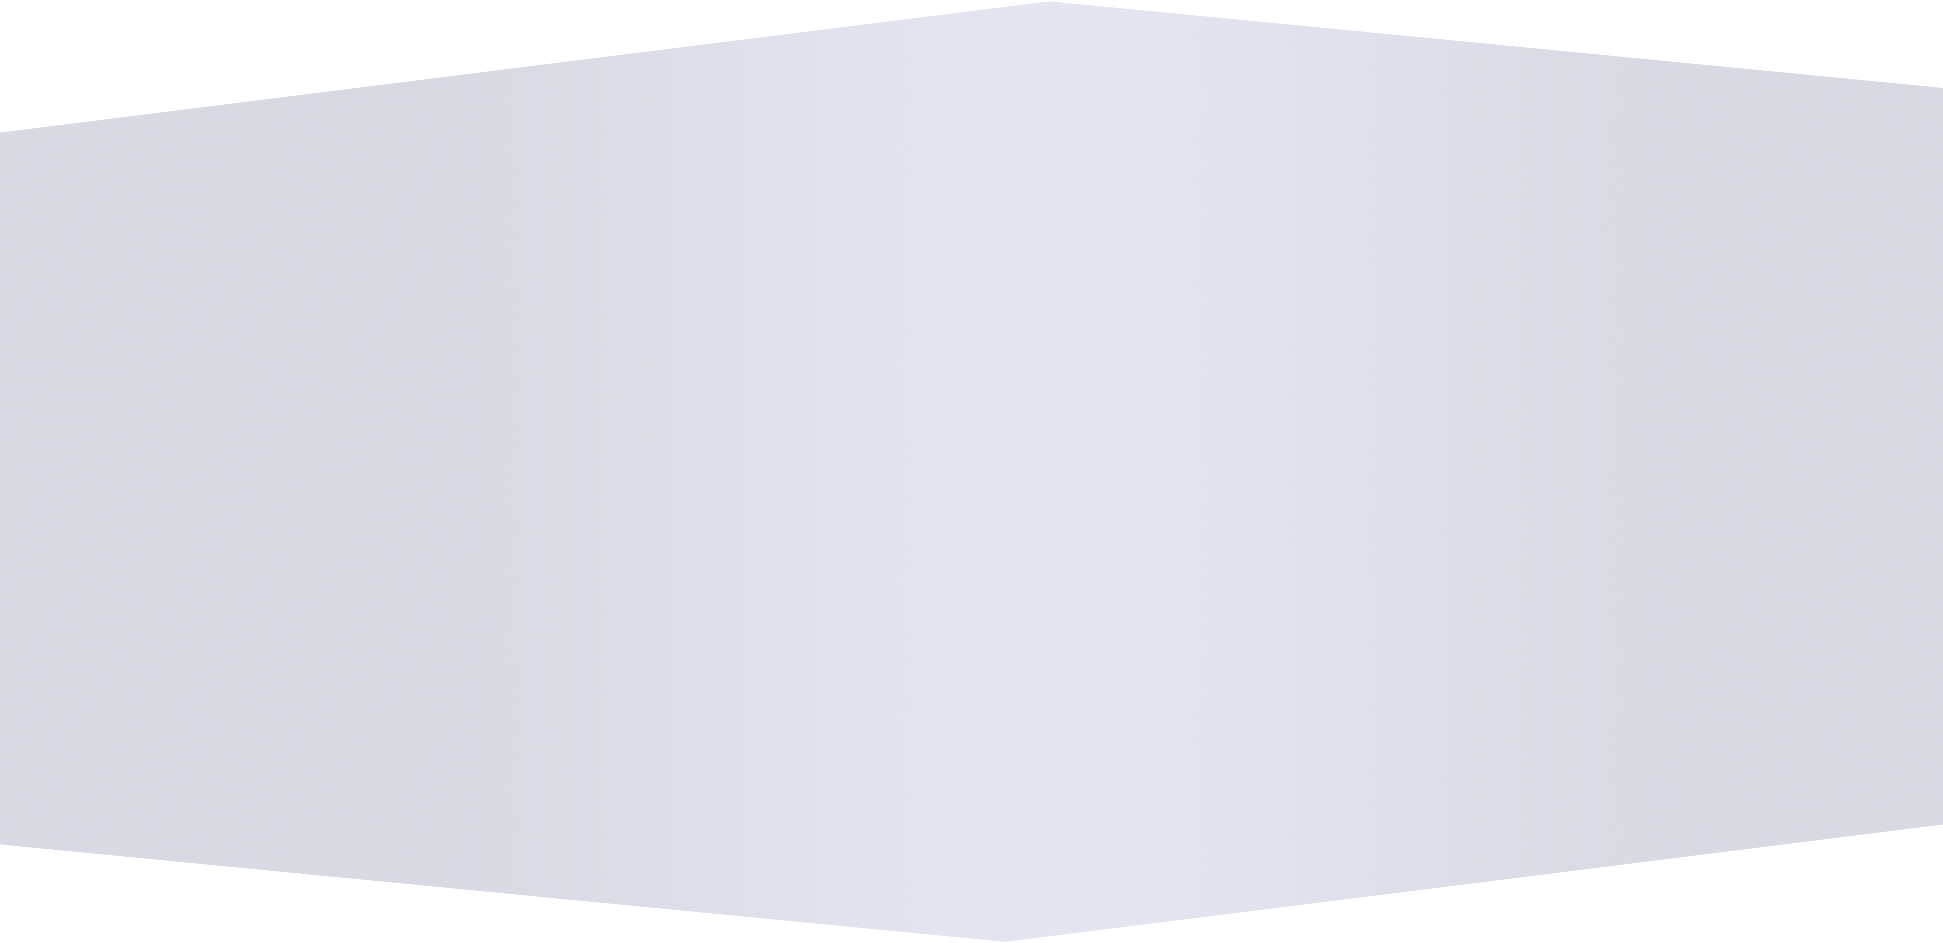
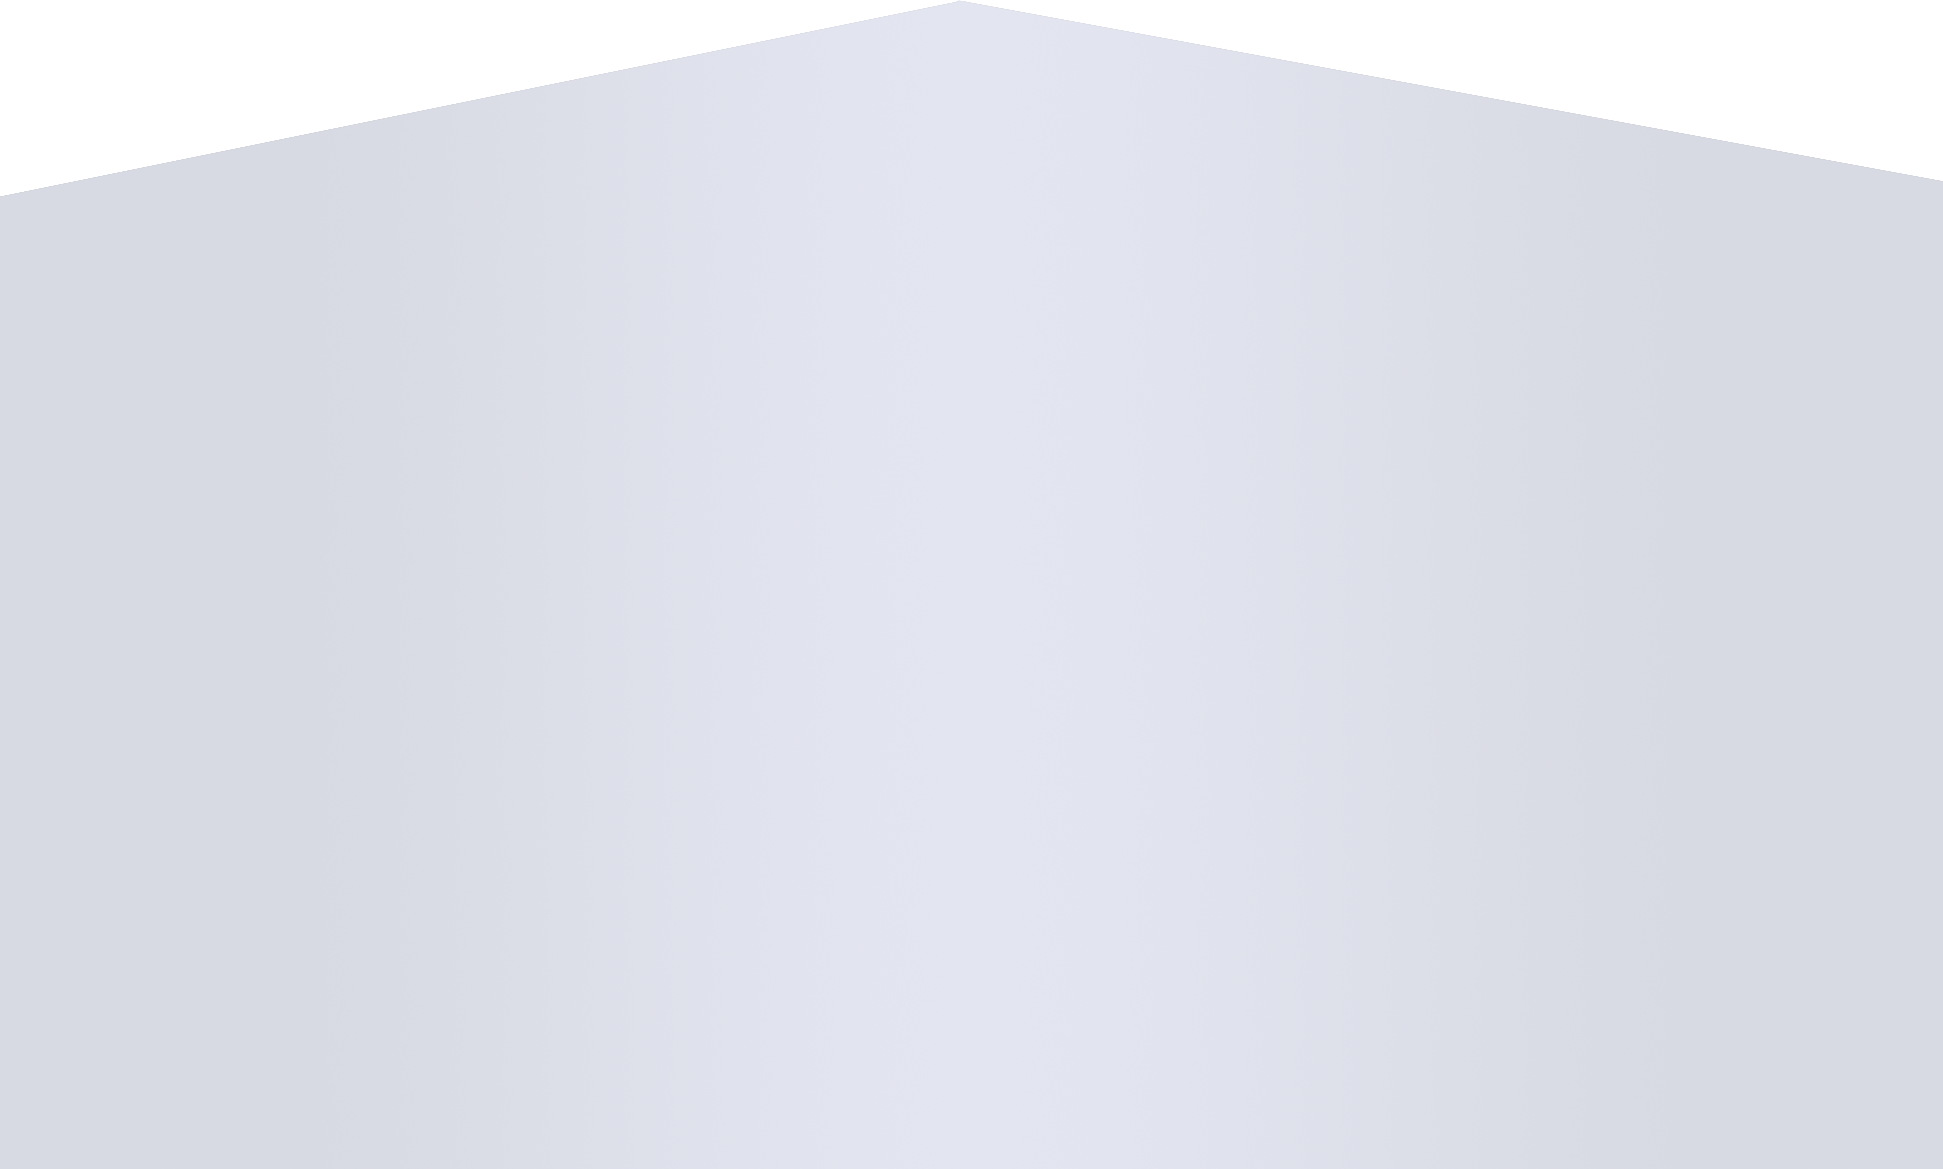
got dash now completly mobile just not ipad but i dont care

diff --git a/src/Leaderboard/Leaderboard.css b/src/Leaderboard/Leaderboard.css
@@ -1,10 +1,21 @@
 .leaderboardbg {
     background-image: url("leaderboard_medium.png");
-    height: 105%;
+    height: 100%;
     width: 100%;
     background-position: center;
     background-repeat: no-repeat;
     position: fixed;
+}
+
+@media screen and (max-height: 764px) {
+    .leaderboardbg {
+        background-image: url("leaderboard_medium.png");
+        height: 140%;
+        width: 100%;
+        background-position: center;
+        background-repeat: no-repeat;
+        position: fixed;
+    }
 }
 
 
@@ -132,6 +143,7 @@
 
 
 
+
 @media screen and (min-width: 576px) {
     .shadowTab_leaderboard {
         margin-top: 15%;
@@ -211,6 +223,31 @@
         margin-bottom: 2%;
         margin-left: -4%;
         width: 13%;
+        height: 13.5vmin;
+        background-color:  white;
+     
+    }
+}
+
+@media screen and (max-height: 670px) {
+    .shadowTab_leaderboard {
+        margin-top: 15%;
+        margin-bottom: 2%;
+        margin-left: -4%;
+        width: 500%;
+        height: 13.5vmin;
+        background-color:  white;
+     
+    }
+}
+
+
+@media screen and (max-height: 764px) {
+    .shadowTab_leaderboard {
+        margin-top: 15%;
+        margin-bottom: 2%;
+        margin-left: -4%;
+        width: 20%;
         height: 13.5vmin;
         background-color:  white;
      

diff --git a/src/ResetPassword/Reset.css b/src/ResetPassword/Reset.css
@@ -1,5 +1,5 @@
 .reset_passwordbg {
-    background-image: url("../Login/loginbg_small.png");
+    background-image: url("../Login/loginbg.png");
     height: 100%;
     width: 100%;
     background-position: center;
@@ -8,27 +8,6 @@
     
 }
 
-@media screen and (min-width: 1000px) {
-    .reset_passwordbg {
-        background-image: url("../Login/loginbg_medium.png");
-        height: 100%;
-        width: 100%;
-        background-position: center;
-        background-repeat: no-repeat;
-        position: fixed;
-    }
-  }
-
-@media screen and (min-width: 1500px) {
-    .reset_passwordbg {
-        background-image: url("../Login/loginbg.png");
-        height: 100%;
-        width: 100%;
-        background-position: center;
-        background-repeat: no-repeat;
-        position: fixed;
-    }
-  }
 
 .reset_password_registerCard {
     border: white;

diff --git a/src/Register/RegisterPage.css b/src/Register/RegisterPage.css
@@ -1,5 +1,5 @@
 .registerbg {
-    background-image: url("../Login/loginbg_small.png");
+    background-image: url("../Login/loginbg.png");
     height: 100%;
     width: 100%;
     background-position: center;
@@ -7,28 +7,6 @@
     position: fixed;
     
 }
-
-@media screen and (min-width: 1000px) {
-    .registerbg {
-        background-image: url("../Login/loginbg_medium.png");
-        height: 100%;
-        width: 100%;
-        background-position: center;
-        background-repeat: no-repeat;
-        position: fixed;
-    }
-  }
-
-@media screen and (min-width: 1500px) {
-    .registerbg {
-        background-image: url("../Login/loginbg.png");
-        height: 100%;
-        width: 100%;
-        background-position: center;
-        background-repeat: no-repeat;
-        position: fixed;
-    }
-  }
 
 .register_registerCard {
     border: white;

diff --git a/src/Login/LoginPage.css b/src/Login/LoginPage.css
@@ -1,5 +1,5 @@
 .loginbg {
-    background-image: url("loginbg_small.png");
+    background-image: url("loginbg.png");
     height: 100%;
     width: 100%;
     background-position: center;
@@ -7,28 +7,9 @@
     position: fixed;
 }
 
-@media screen and (min-width: 1000px) {
-    .loginbg {
-        background-image: url("loginbg_medium.png");
-        height: 100%;
-        width: 100%;
-        background-position: center;
-        background-repeat: no-repeat;
-        position: fixed;
-    }
-  }
-
-@media screen and (min-width: 1500px) {
-    .loginbg {
-        background-image: url("loginbg.png");
-        height: 100%;
-        width: 100%;
-        background-position: center;
-        background-repeat: no-repeat;
-        position: fixed;
-    }
+.MedcurityLogo_login {
+    width: 25vmax;
 }
-
 
 .login_pageHeader {
     margin-top: 7%;

diff --git a/src/Leaderboard/LeaderboardPage.js b/src/Leaderboard/LeaderboardPage.js
@@ -164,7 +164,7 @@ const LeaderboardPage = () => {
                     <Col className="shadowTab_leaderboard uvs-left uvs-right" sm={2}>
                         <Nav variant="pills" className="selection_leaderbaord_container text-left">
                             <Nav.Item className="orginization_selection_tab">
-                                <Nav.Link className="leaderbaord_pill_font" eventKey="first">{companyName[0].name} Users</Nav.Link>
+                                <Nav.Link className="leaderbaord_pill_font" eventKey="first">{companyName.name} Users</Nav.Link>
                             </Nav.Item>
                             <Nav.Item className="all_leaderboard_selection ">
                                 <Nav.Link  className="leaderbaord_pill_font" eventKey="second">Meducrity Learn Security Users</Nav.Link>

diff --git a/src/Login/LoginPage.js b/src/Login/LoginPage.js
@@ -70,7 +70,7 @@ export default function LoginPage()
   return (
       <>
       <Form className="loginbg img-fluid">
-        <Image className="MedcurityLogo justify-content-bottom" variant="top" src="/Medcurity_Logo.png" alt="" />
+        <Image className="MedcurityLogo_login justify-content-bottom" variant="top" src="/triangle_logo.png" alt="" />
         <div class="login_pageHeader">
           <h1 class="login_pageHeaderText">Welcome to Medcurity Learn Security</h1>
         </div>

diff --git a/src/MenuBar/MenuBar.js b/src/MenuBar/MenuBar.js
@@ -121,7 +121,7 @@ const Menubar = () => {
 
     return (
         <>
-        <Row>
+        <Row className="menubar_bg">
             <Col xs={2} md={2}>
             <OverlayTrigger
             placement="right"
@@ -151,6 +151,7 @@ const Menubar = () => {
                 </Card>
             </Col>
         </Row>
+     
         </>
     );
 

diff --git a/src/MenuBar/MenuBar.css b/src/MenuBar/MenuBar.css
@@ -1,3 +1,5 @@
+
+
 .navPills {
     background-color: #127ebf;
     color: white;
